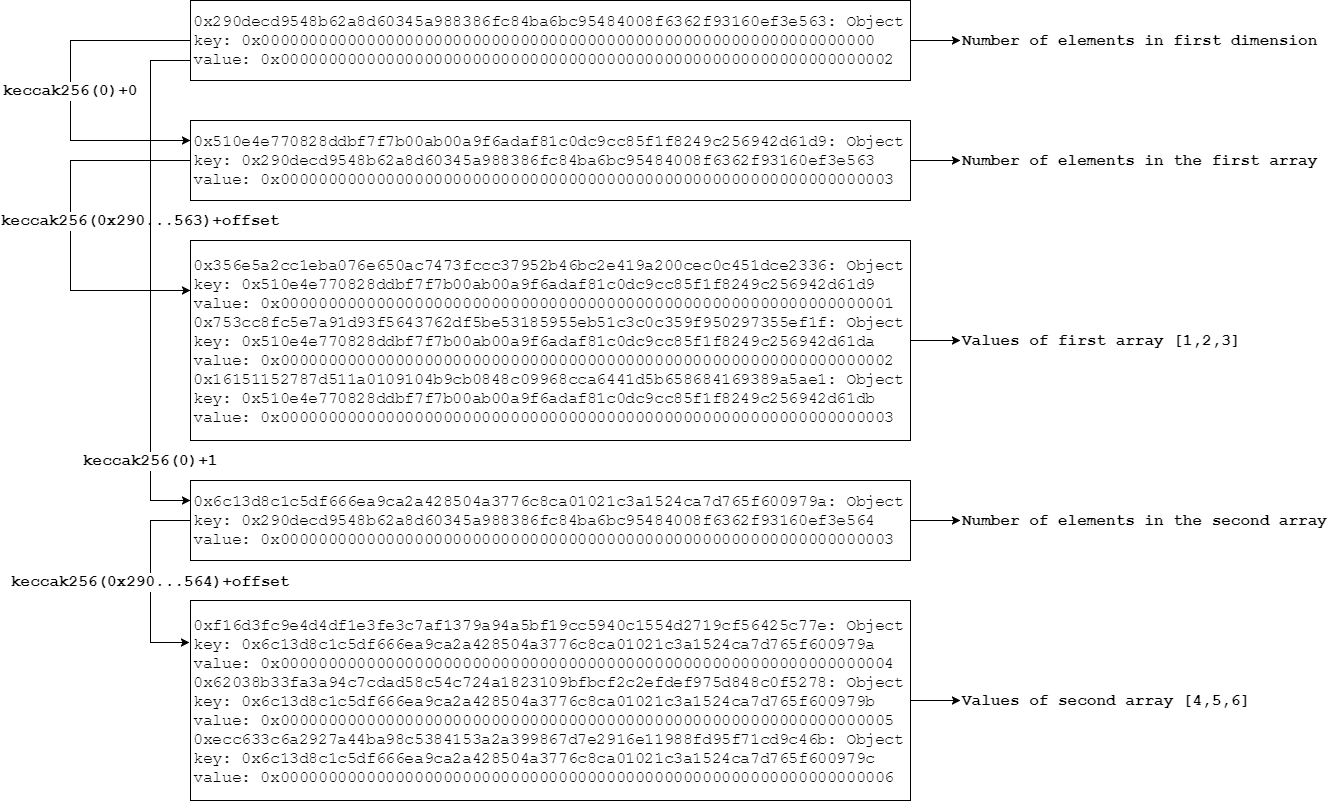
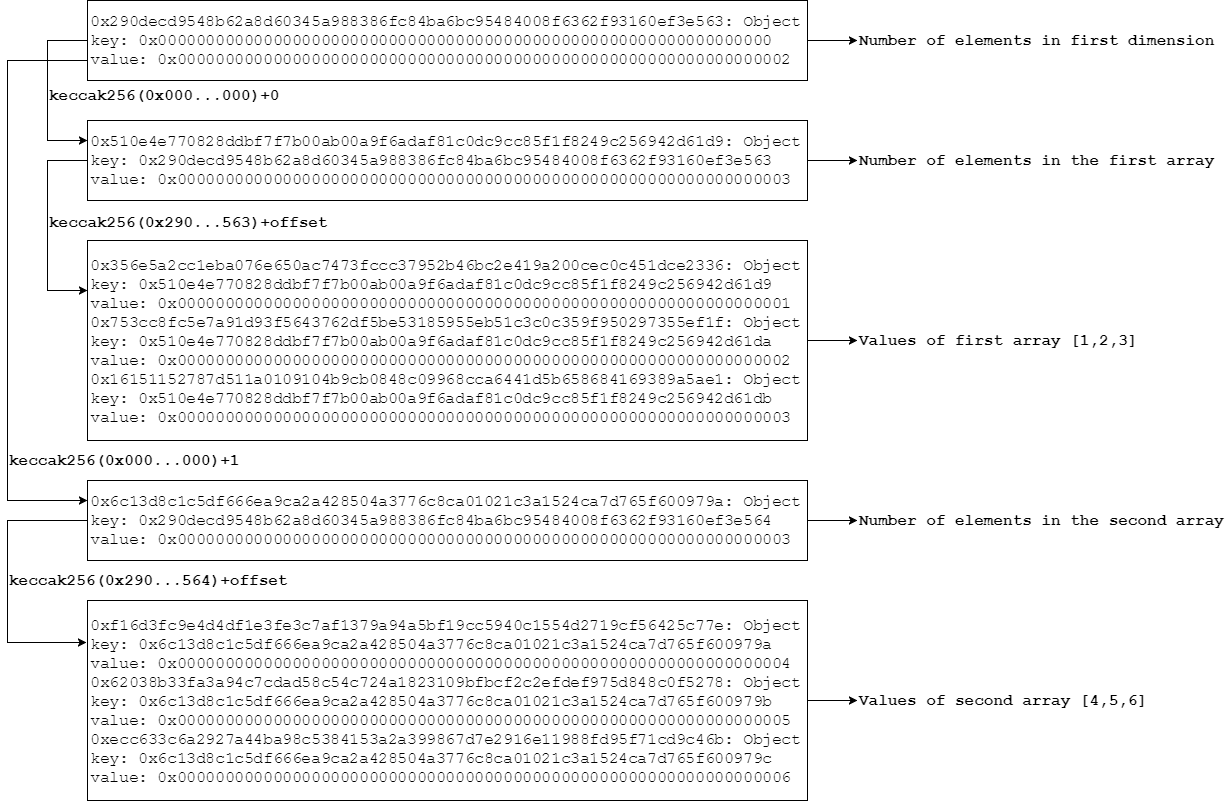
Added a new support document

diff --git a/support/NESTED_ARRAYS_NOT_IMPLEMENTED.MD b/support/NESTED_ARRAYS_NOT_IMPLEMENTED.MD
@@ -1,0 +1,375 @@
+## UnimplementedFeatureError: Nested arrays not implemented?
+
+### Brief
+
+The concept of a nested array in Solidity doesn't always relate to a primitive definition such as `uint[][]` or `byte[][]`. It encapsulates single dimensional arrays which also contain data types in which they themselves use arrays to store internal values such as Bytes and Strings. When I refer to primitives in Solidity what I mean `uint`, `int`, `bool`, `byte` which are in essence different types of integers with different sizes. `string`, `bytes`, `address` are just a few examples of data types which contain arrays and therefore a single array is in essence a nested array like `string[]` or `bytes[]`.
+
+### Contents
+
+- [1. Can I use nested arrays?](#1-can-i-use-nested-arrays)
+   - [1.1. Where can I use a nested array?](#11-where-can-i-use-a-nested-array)
+      - [1.1.1. Internal Nested Uses](#111-internal-nested-uses)
+   - [1.2. Where can't I use nested arrays?](#12-where-cant-i-use-nested-arrays)
+      - [1.2.1. External Failed Nested Uses](#121-external-failed-nested-uses)
+- [2. What does a nested array look like in the storage mechanisms?](#2-what-does-a-nested-array-look-like-in-the-storage-mechanisms)
+  - [2.1. Memory](#21-memory)
+  - [2.2. Storage](#22-storage)
+  - [2.3. Calldata](#23-calldata)
+- [3. Alternative Nested Implementation](#3-alternative-nested-implementation)
+  - [3.1. Convert a nested array to bytes](#31-convert-a-nested-array-to-bytes)
+  - [3.2. Convert bytes to a nested array](#32-convert-bytes-to-a-nested-array)
+- [4. Resources](4-resources)
+
+### 1. Can I use nested arrays?
+
+In short, yes you can, but you have to understand the constraints of using them before you design your DAPP around them. The first question you want to pose yourself really is do you need them? In Solidity's current state nested arrays are incomplete and will cause you unnecessary challenges. Next, you to be mindful of is what type of storage will you use for your nested array? Nested arrays are not implemented for every storage type, although they not throw errors at compilation time you may encounter errors at run time.
+
+#### 1.1. Where can I use a nested array?
+
+We use nested arrays in several ways at the moment which are pretty exclusive to internal only calling mechanisms. Functions can also use them, but we can only pass and return nested arrays to functions if they are __not__ externally facing.
+
+##### 1.1.1. Internal Nested Uses
+
+What this basically means is you can use nested array when they either:
+
+**A storage implementation**
+
+Storage, currently only has the complete and fully functioning implementation of arrays in Solidity.
+
+```
+    pragma solidity ^0.4.0;
+
+    contract NestedArrays {
+        uint[][] private nested;
+        function test() public {}
+    }
+```
+
+**A memory implementation**
+
+It's important to note; regardless of this both compiling and running fine you cannot add or remove elements to any of the dimensions due to the limits of dynamic arrays in memory.
+
+```
+    pragma solidity ^0.4.0;
+
+    contract NestedArrays {
+        function test() public {
+            uint[][] memory nested;
+        }
+    }
+```
+
+**Or, functionally, with an internal constraint**
+
+Similar to the memory implementation this compiles and runs, but the array length is finite to the length it was passed in as.
+
+```
+pragma solidity ^0.4.0;
+
+contract NestedArrays {
+
+    function passNested(uint[][] nested) internal {
+        // ...
+    }
+
+    function returnNested() internal returns (uint[][]) {
+        // ...
+    }
+}
+```
+
+#### 1.2. Where can't I use nested arrays?
+
+Basically, the biggest issue facing nested arrays is with the lack of implementation with the calldata which the compiler will prevent compilation if any interaction is identified. Nested arrays in the calldata may come in later, but for now direct calls are off limits.
+
+##### 1.2.1. External Failed Nested Uses
+
+If you try to use it as part of the call data such as:
+
+**Function parameters**
+
+    pragma solidity ^0.4.0;
+
+    contract NestedArrays {
+        function test(uint[][] nested) public {
+        }
+    }
+
+Will result in the error:
+
+> UnimplementedFeatureError: Nested arrays not yet implemented.
+
+**Or as a return statement**
+
+```
+    pragma solidity ^0.4.0;
+
+    contract NestedArrays {
+        function test() public returns (uint[][] nested) {
+        }
+    }
+```
+
+Will result in the error:
+
+> UnimplementedFeatureError: Nested dynamic arrays not implemented here.
+
+### 2. What does a nested array look like in the storage mechanisms?
+
+Nested arrays are almost identical in storage, minus a few differences between the lookup techniques.
+
+For the following examples I will use this code to extract the memory
+
+```
+pragma solidity ^0.4.0;
+
+contract NestedContract {
+
+    uint[][] nestedArray;
+
+    function outerCall() public returns (uint) {
+        nestedArray.push([1,2,3]);
+        nestedArray.push([4,5,6]);
+        return innerCall(nestedArray);
+    }
+
+    function innerCall(uint[][] x) private returns (uint) {
+        uint total = 0;
+        for(uint i = 0; i < x.length; i++) {
+            total += x[i].length;
+        }
+        return total;
+    }
+}
+```
+
+#### 2.1. Memory
+
+**Memory Block**
+
+The raw memory extracted from the virtual machine debugger Remix.
+
+```
+0x120: 00000000000000000000000000000000	????????????????
+0x130: 00000000000000000000000000000002	????????????????
+0x140: 00000000000000000000000000000000	????????????????
+0x150: 00000000000000000000000000000180	????????????????
+0x160: 00000000000000000000000000000000	????????????????
+0x170: 00000000000000000000000000000200	????????????????
+0x180: 00000000000000000000000000000000	????????????????
+0x190: 00000000000000000000000000000003	????????????????
+0x1a0: 00000000000000000000000000000000	????????????????
+0x1b0: 00000000000000000000000000000001	????????????????
+0x1c0: 00000000000000000000000000000000	????????????????
+0x1d0: 00000000000000000000000000000002	????????????????
+0x1e0: 00000000000000000000000000000000	????????????????
+0x1f0: 00000000000000000000000000000003	????????????????
+0x200: 00000000000000000000000000000000	????????????????
+0x210: 00000000000000000000000000000003	????????????????
+0x220: 00000000000000000000000000000000	????????????????
+0x230: 00000000000000000000000000000004	????????????????
+0x240: 00000000000000000000000000000000	????????????????
+0x250: 00000000000000000000000000000005	????????????????
+0x260: 00000000000000000000000000000000	????????????????
+0x270: 00000000000000000000000000000006	????????????????
+```
+**Memory Layout**
+
+The breakdown of the memory layout and what each memory address points to.
+
+![https://raw.githubusercontent.com/willitscale/learning-solidity/master/support/images/nested_memory_layout.png](https://raw.githubusercontent.com/willitscale/learning-solidity/master/support/images/nested_memory_layout.png)
+
+I broke this down into 7 chunks of memory:
+1. `0x120 -> 32 bytes`, the first chunk contains the number of arrays stored within the array which is interoperated as the next `n*256` (number of elements times a 256-bit unsigned integer) contains the pointers to the arrays
+2. `0x140 -> 32 bytes`, the memory location of the first array which is located at `0x180`
+3. `0x160 -> 32 bytes`, the memory location of the second array which is located at `0x200`
+4. `0x180 -> 32 bytes`, the number of elements in the first array which is interoperated as the next `n*256` (number of elements times a 256-bit unsigned integer) contains the array values
+5. `0x1a0 -> 96 bytes`, the array values of the first array which are in 32 byte chunks
+6. `0x200 -> 32 bytes`, the number of elements in the second array which is interoperated as the next `n*256` (number of elements times a 256-bit unsigned integer) contains the array values
+7. `0x220 -> 96 bytes`, the array values of the second array which are in 32 byte chunks
+
+#### 2.2. Storage
+
+**Storage Key Pairs**
+
+The storage was extracted from the virtual machine debugger Remix.
+
+```
+0x290decd9548b62a8d60345a988386fc84ba6bc95484008f6362f93160ef3e563: Object
+key: 0x0000000000000000000000000000000000000000000000000000000000000000
+value: 0x0000000000000000000000000000000000000000000000000000000000000002
+0x510e4e770828ddbf7f7b00ab00a9f6adaf81c0dc9cc85f1f8249c256942d61d9: Object
+key: 0x290decd9548b62a8d60345a988386fc84ba6bc95484008f6362f93160ef3e563
+value: 0x0000000000000000000000000000000000000000000000000000000000000003
+0x356e5a2cc1eba076e650ac7473fccc37952b46bc2e419a200cec0c451dce2336: Object
+key: 0x510e4e770828ddbf7f7b00ab00a9f6adaf81c0dc9cc85f1f8249c256942d61d9
+value: 0x0000000000000000000000000000000000000000000000000000000000000001
+0x753cc8fc5e7a91d93f5643762df5be53185955eb51c3c0c359f950297355ef1f: Object
+key: 0x510e4e770828ddbf7f7b00ab00a9f6adaf81c0dc9cc85f1f8249c256942d61da
+value: 0x0000000000000000000000000000000000000000000000000000000000000002
+0x16151152787d511a0109104b9cb0848c09968cca6441d5b658684169389a5ae1: Object
+key: 0x510e4e770828ddbf7f7b00ab00a9f6adaf81c0dc9cc85f1f8249c256942d61db
+value: 0x0000000000000000000000000000000000000000000000000000000000000003
+0x6c13d8c1c5df666ea9ca2a428504a3776c8ca01021c3a1524ca7d765f600979a: Object
+key: 0x290decd9548b62a8d60345a988386fc84ba6bc95484008f6362f93160ef3e564
+value: 0x0000000000000000000000000000000000000000000000000000000000000003
+0xf16d3fc9e4d4df1e3fe3c7af1379a94a5bf19cc5940c1554d2719cf56425c77e: Object
+key: 0x6c13d8c1c5df666ea9ca2a428504a3776c8ca01021c3a1524ca7d765f600979a
+value: 0x0000000000000000000000000000000000000000000000000000000000000004
+0x62038b33fa3a94c7cdad58c54c724a1823109bfbcf2c2efdef975d848c0f5278: Object
+key: 0x6c13d8c1c5df666ea9ca2a428504a3776c8ca01021c3a1524ca7d765f600979b
+value: 0x0000000000000000000000000000000000000000000000000000000000000005
+0xecc633c6a2927a44ba98c5384153a2a399867d7e2916e11988fd95f71cd9c46b: Object
+key: 0x6c13d8c1c5df666ea9ca2a428504a3776c8ca01021c3a1524ca7d765f600979c
+value: 0x0000000000000000000000000000000000000000000000000000000000000006
+```
+
+**Storage Layout**
+
+The breakdown of the storage layout and how it all links up.
+
+![https://raw.githubusercontent.com/willitscale/learning-solidity/master/support/images/nested_memory_layout.png](https://raw.githubusercontent.com/willitscale/learning-solidity/master/support/images/nested_storage_layout.png)
+
+Unlike memory, I've split this up into 5 chunks instead of 7 as there is no pointers in storage due to the key/value lookups negating the need for this:
+1. `0x000...000`, as previously mentioned in the "Invalid Implicit Conversion" support document storage variables are at top level incrementally referenced by a zero index. As this is the first index it has the key of `0x0` and it contains the length of elements in the array.
+2. `keccak256(0x000...000)+0`, size of the first nested array which is referenced by the key of the first dimension array length plus the incremental zero index, or in this case 0.
+3. `keccak256(0x290...563)+offset`, the elements of the first nested array which are referenced by; the hash of the first nested array length key, hashed again with `keccak256` and incremented by the zero index offset of the element.
+4. `keccak256(0x000...000)+1`, size of the second nested array which is referenced by the key of the first dimension array length plus the incremental zero index, or in this case 1.
+5. `keccak256(0x290...564)+offset`, the elements of the second nested array which are referenced by; the hash of the second nested array length key, hashed again with `keccak256` and incremented by the zero index offset of the element.
+
+#### 2.3. Calldata
+
+Currently, there is no implementation of this, but when it is expect the layout to be similar to memory.
+
+### 3. Alternative Nested Implementation
+
+One alternative to directly passing or receiving nested arrays via the calldata is to pass the data as bytes and extract the array data or vice-versa.
+
+#### 3.1. Convert a nested array to bytes
+
+Encode a nested array to bytes:
+
+```
+function toBytes(uint[][] _array)
+    internal
+    returns (bytes _ptr) {
+    assembly {
+        let num_arrays := mload(_array)
+        let total_bytes := 0
+
+        _ptr := msize()
+
+        // No data
+        jumpi(copy_end, eq(0, num_arrays))
+
+        let array_offset := 0
+        let idx_arrays := 0
+        let num_elements := 0
+
+        // Find the total amount of elements
+        length_start:
+        jumpi(length_end, eq(idx_arrays, num_arrays))
+        array_offset := mload(add(_array, add(0x20, mul(idx_arrays, 0x20))))
+        // Don't use the array in memory after the following, it will mess up the pointers!
+        mstore(add(_array, add(0x20, mul(idx_arrays,0x20))), sub(array_offset, _array))
+        num_elements := add(num_elements, mload(array_offset))
+        idx_arrays := add(idx_arrays, 1)
+        jump(length_start)
+        length_end:
+
+        let idx_bytes := 0
+        total_bytes := add(1, add(mul(2, num_arrays), num_elements))
+
+        // Copy all the data to the byte array
+        copy_start:
+        jumpi(copy_end, eq(total_bytes, idx_bytes))
+        mstore(add(_ptr, add(mul(idx_bytes, 0x20), 0x20)), mload(add(_array, mul(idx_bytes, 0x20))))
+        idx_bytes := add(idx_bytes, 1)
+        jump(copy_start)
+        copy_end:
+
+        // Store the amount of bytes
+        mstore(_ptr, mul(total_bytes, 0x20))
+
+        // Set the msize offset
+        mstore(0x40, add(_ptr, mul(0x20, add(total_bytes, 1))))
+    }
+}
+```
+
+The code above is experimental and has known issues due to the overwriting of the array offset pointers. Also, be aware that this can have quite a high gas cost on large arrays. If you wanted to use this with `string` arrays then a lot of the data sizes and offsets would have to be reduced as string values are stored as `byte` or `uint8` lengths.
+
+#### 3.2. Convert bytes to a nested array
+
+Decode a nested array from bytes:
+
+```
+function toArray(bytes _bytes)
+    internal
+    returns (uint[][] _ptr) {
+    assembly {
+        // Should probably do a modular check to see if there is a zero remainder first
+        let total_bytes := div(mload(_bytes), 0x20)
+        _ptr := msize()
+
+        // No data
+        jumpi(copy_end, eq(0, total_bytes))
+
+        let start_offset := add(_bytes, 0x20)
+        let num_arrays := mload(start_offset)
+        let array_offset := 0
+        let idx_arrays := 0
+        let num_elements := 0
+
+        // Find the total amount of elements
+        length_start:
+        jumpi(length_end, eq(idx_arrays, num_arrays))
+        array_offset := mload(add(start_offset, add(0x20, mul(idx_arrays,0x20))))
+        // Correct the pointers
+        mstore(add(start_offset, add(0x20, mul(idx_arrays,0x20))), add(_ptr, array_offset))
+        num_elements := add(num_elements, mload(array_offset))
+        idx_arrays := add(idx_arrays, 1)
+        jump(length_start)
+        length_end:
+
+        let idx_bytes := 0
+
+        // Copy all the data to the byte array
+        copy_start:
+        jumpi(copy_end, eq(total_bytes, idx_bytes))
+        mstore(add(_ptr, mul(idx_bytes, 0x20)), mload(add(start_offset, mul(idx_bytes, 0x20))))
+        idx_bytes := add(idx_bytes, 1)
+        jump(copy_start)
+        copy_end:
+
+        // Set the msize offset
+        mstore(0x40, add(_ptr, mul(0x20, total_bytes)))
+    }
+}
+```
+
+Again, this code is experimental, but the logic should be correct.
+
+If you would like a test case for the two data conversion mechanisms above here's a basic concept:
+
+```
+contract NestedContract {
+
+    uint[][] nestedArray;
+
+    function getBytes() public returns (uint[]) {
+        nestedArray.push([1,2,3]);
+        nestedArray.push([4,5,6]);
+        return toArray(toBytes(nestedArray))[1]; // Should return the second array
+    }
+
+    function toBytes(uint[][] _array) internal returns (bytes _ptr);
+    function toArray(bytes _bytes) internal returns (uint[][] _ptr);
+}
+```
+
+### 4. Resources
+
+- [Solidity ABI Specification](https://github.com/ethereum/wiki/wiki/Ethereum-Contract-ABI)
+- [Remix IDE](https://remix.ethereum.org)
+- [Can you return an array or a string from a solidity function call?](http://solidity.readthedocs.io/en/develop/frequently-asked-questions.html#can-you-return-an-array-or-a-string-from-a-solidity-function-call)

diff --git a/README.md b/README.md
@@ -26,6 +26,7 @@ The companion to the Youtube tutorials
 ### Support
 
 - [Invalid implicit conversion of arrays from storage to memory and vice-versa](https://github.com/willitscale/learning-solidity/blob/master/support/INVALID_IMPLICIT_CONVERSION_OF_ARRAYS.MD)
+- [UnimplementedFeatureError: Nested arrays not implemented?](https://github.com/willitscale/learning-solidity/blob/master/support/NESTED_ARRAYS_NOT_IMPLEMENTED.MD)
 
 ### Contributions
 
